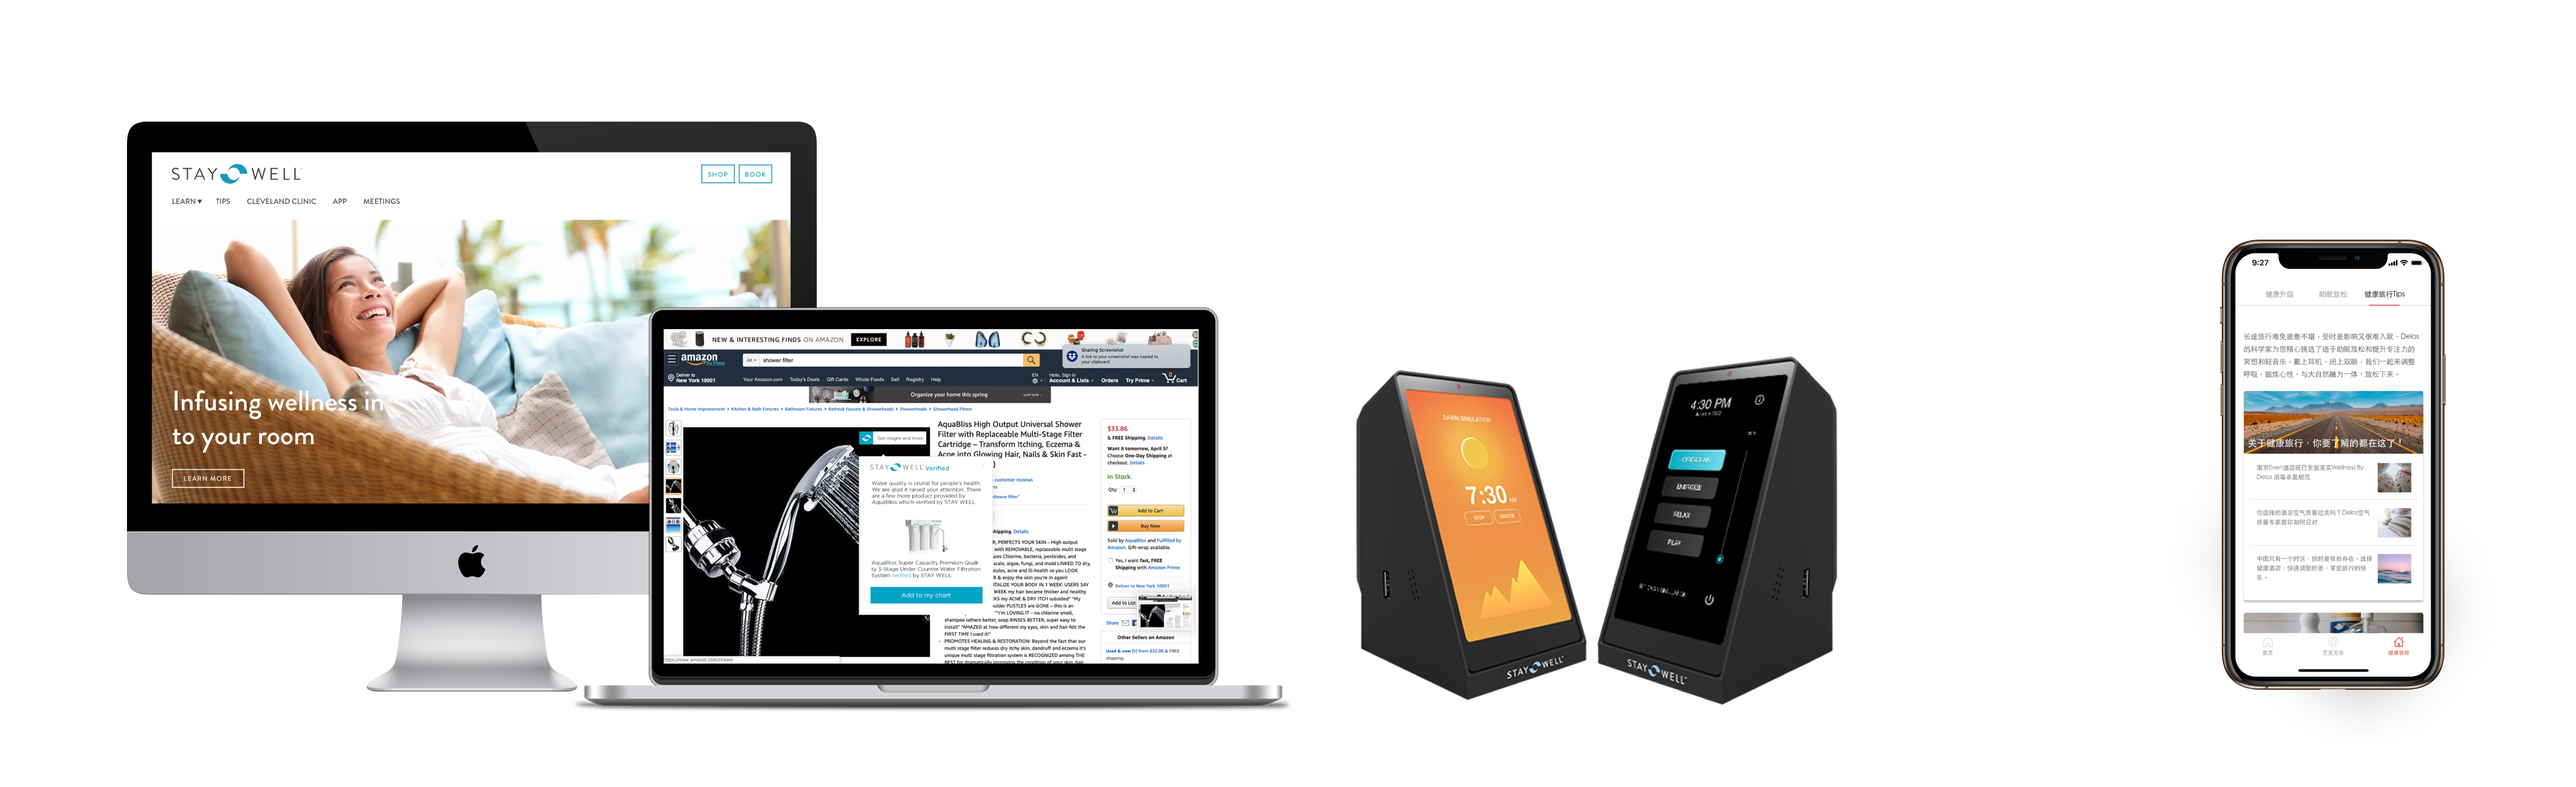
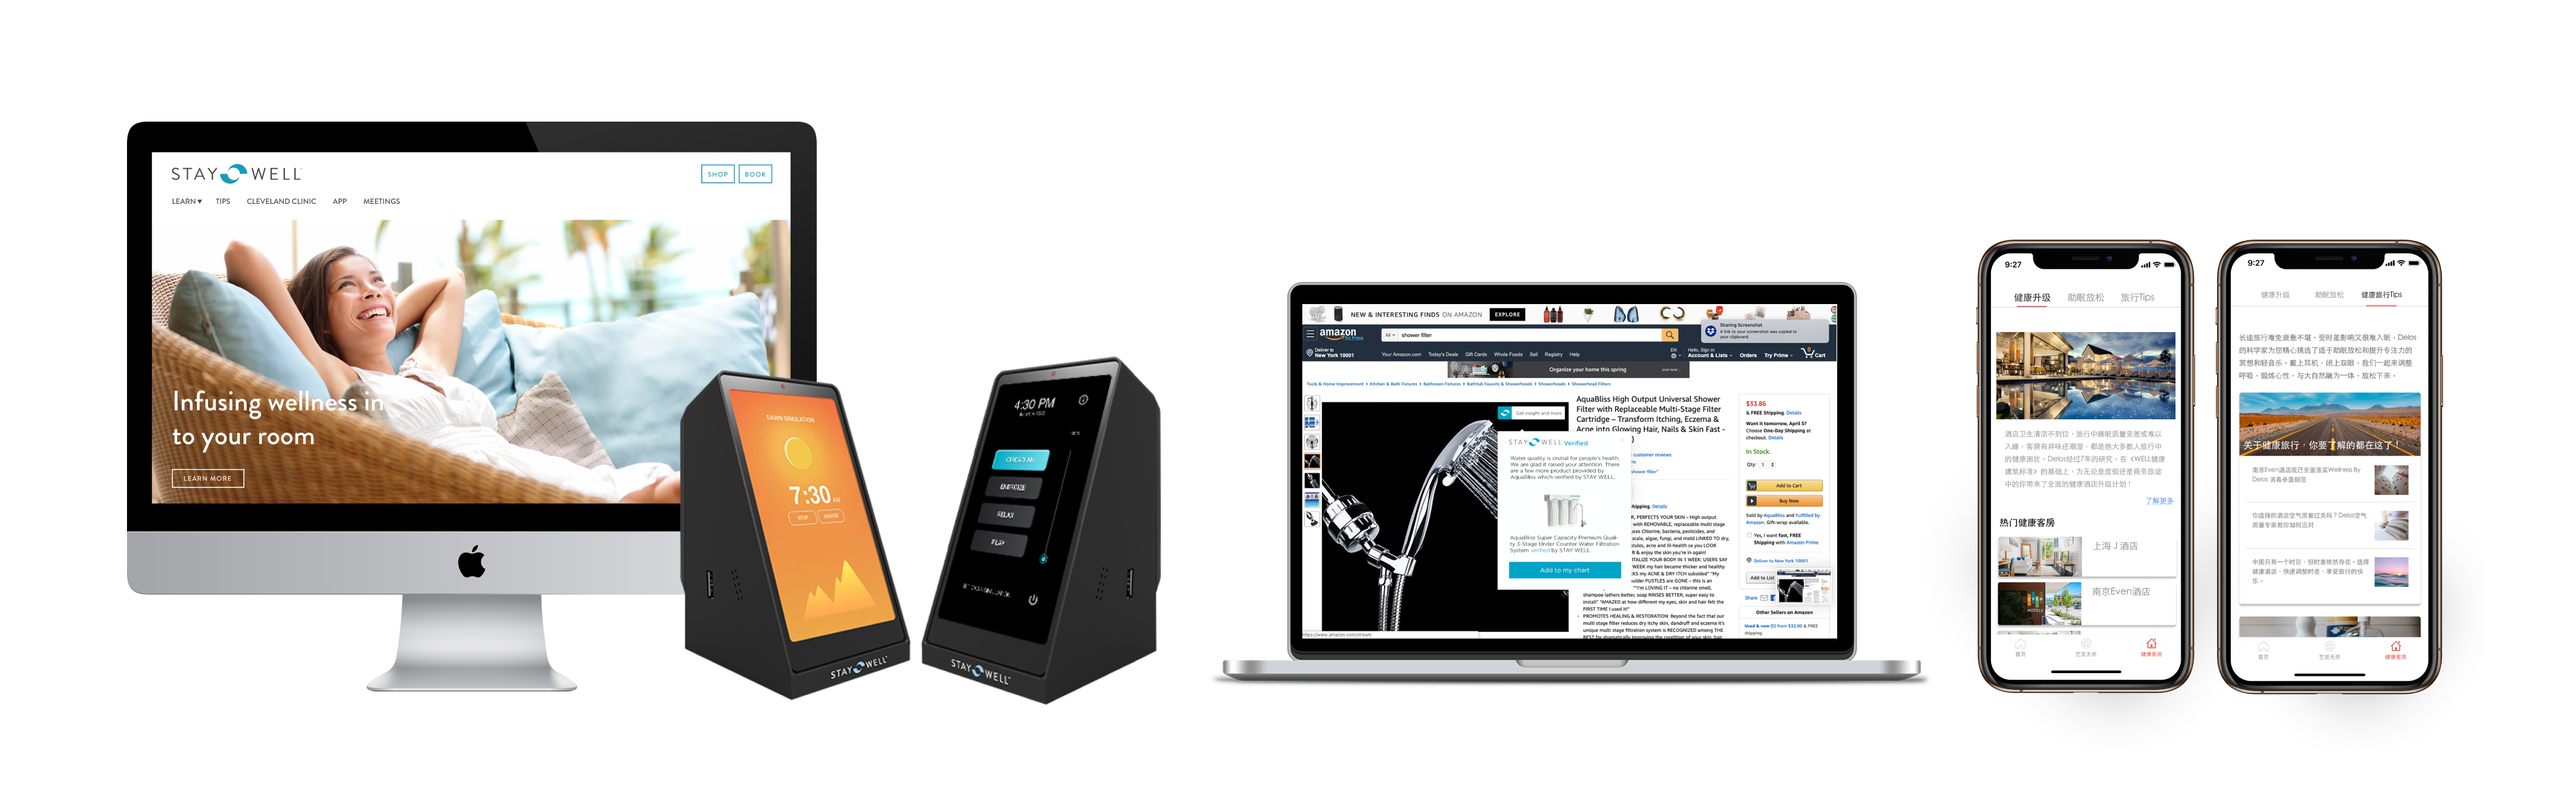
update main imgage

Changed region(s): [[0.2188, 0.2795, 0.9688, 0.9008]]

diff --git a/05ef8ea874d9293023ef7f02e7e124c7d26921dd/staywell.html b/05ef8ea874d9293023ef7f02e7e124c7d26921dd/staywell.html
@@ -48,12 +48,12 @@
   </div>  
 </nav>
 
-<div><img class="landing-img" src="img/work/staywell/StayWell_main.png"></div>
+<div><img class="landing-img" src="img/work/staywell/StayWell_productline.png"></div>
 
 <div class="container come-in">
 <h1>Stay Well<br> - Design a holistic solution for Healthy Travel Experience</h1>  
   <p>2018 - present (2 years)</p>
-  <p class="intro"><a href="https://delos.com.au/"><b>Stay Well</b></a> is a program created for <b>healthy travel</b> experiences. Collaborated with famous hotel brands like MGM, Marriott, Wyndham, etc., Stay Well minimizes the impact that travel has on humans through curated products and well-designed program. My key contributions are: redesigned the website and US app, led the localization of the program in China, commercialized the product evaluation report, etc.</p>
+  <p class="intro"><a href="https://delos.com.au/"><b>Stay Well</b></a> is a program created for <b>healthy travel</b> experiences. Collaborated with famous hotel brands like MGM, Marriott, Wyndham, etc., Stay Well minimizes the impact that travel has on humans through curated products and well-designed program.</p>
   <div class="row">
     <div class="col-lg-3 intro sidebar">
         <p>My Role</p>
@@ -108,18 +108,27 @@
 <!--     <div><img src="img/work/staywell/website/homescreen1.png"></div> -->
 
     <div class="row">
-      <div class="col-lg-3"></div>
-      <div class="col-lg-9"><img src="img/work/staywell/website/current1.png"></div>
-
       <div class="col-lg-3 sidebar">
         <p>Challenges</p>
+        <h4>A product with many products</h4></div>
+
+
+      <div class="col-lg-9 overview">
+        <p>The biggest challenges for Stay Well is that it's a package of products, which include light, air purifier, aromatherapy, app, web, WeChat mini program, product evaluation reports, etc. </p>
+      </div>
+    </div>
+    <div class="row">
+
+      <div class="col-lg-3 sidebar">
+        
         <h4>The website and app lack of maintenance and iteration</h4></div>
       <div class="col-lg-9 overview">
         
         <p>The Stay Well App and website were first released  4 - 5 years ago and haven’t been updated for more than 2 years. The design and content are not able to represent the current value proposition.  9 Stay Well app exist on Apple App Store. The number of rating is less than 5 while the average star is 3. The jet lag relief concept was innovative when it was developed 9 years ago, due to lack of maintenance and iteration, the feature fall behind its competitors.</p>
         
       </div>
-
+      <div class="col-lg-3"></div>
+      <div class="col-lg-9"><img src="img/work/staywell/website/current1.png"></div>
     </div>
 
 
@@ -135,6 +144,15 @@
         
       </div>
       
+    </div>
+
+    <div class="row">
+      <div class=""></div>
+      <p class="intro"> My key contributions are: redesigned the website and US app, led the localization of the program in China, commercialized the product evaluation report, etc.</p>
+      <div class="col-lg-4">
+        
+      </div>
+
     </div>
     <div class="row">
       <div class="col-lg-3"><h4>Discover</h4></div>
